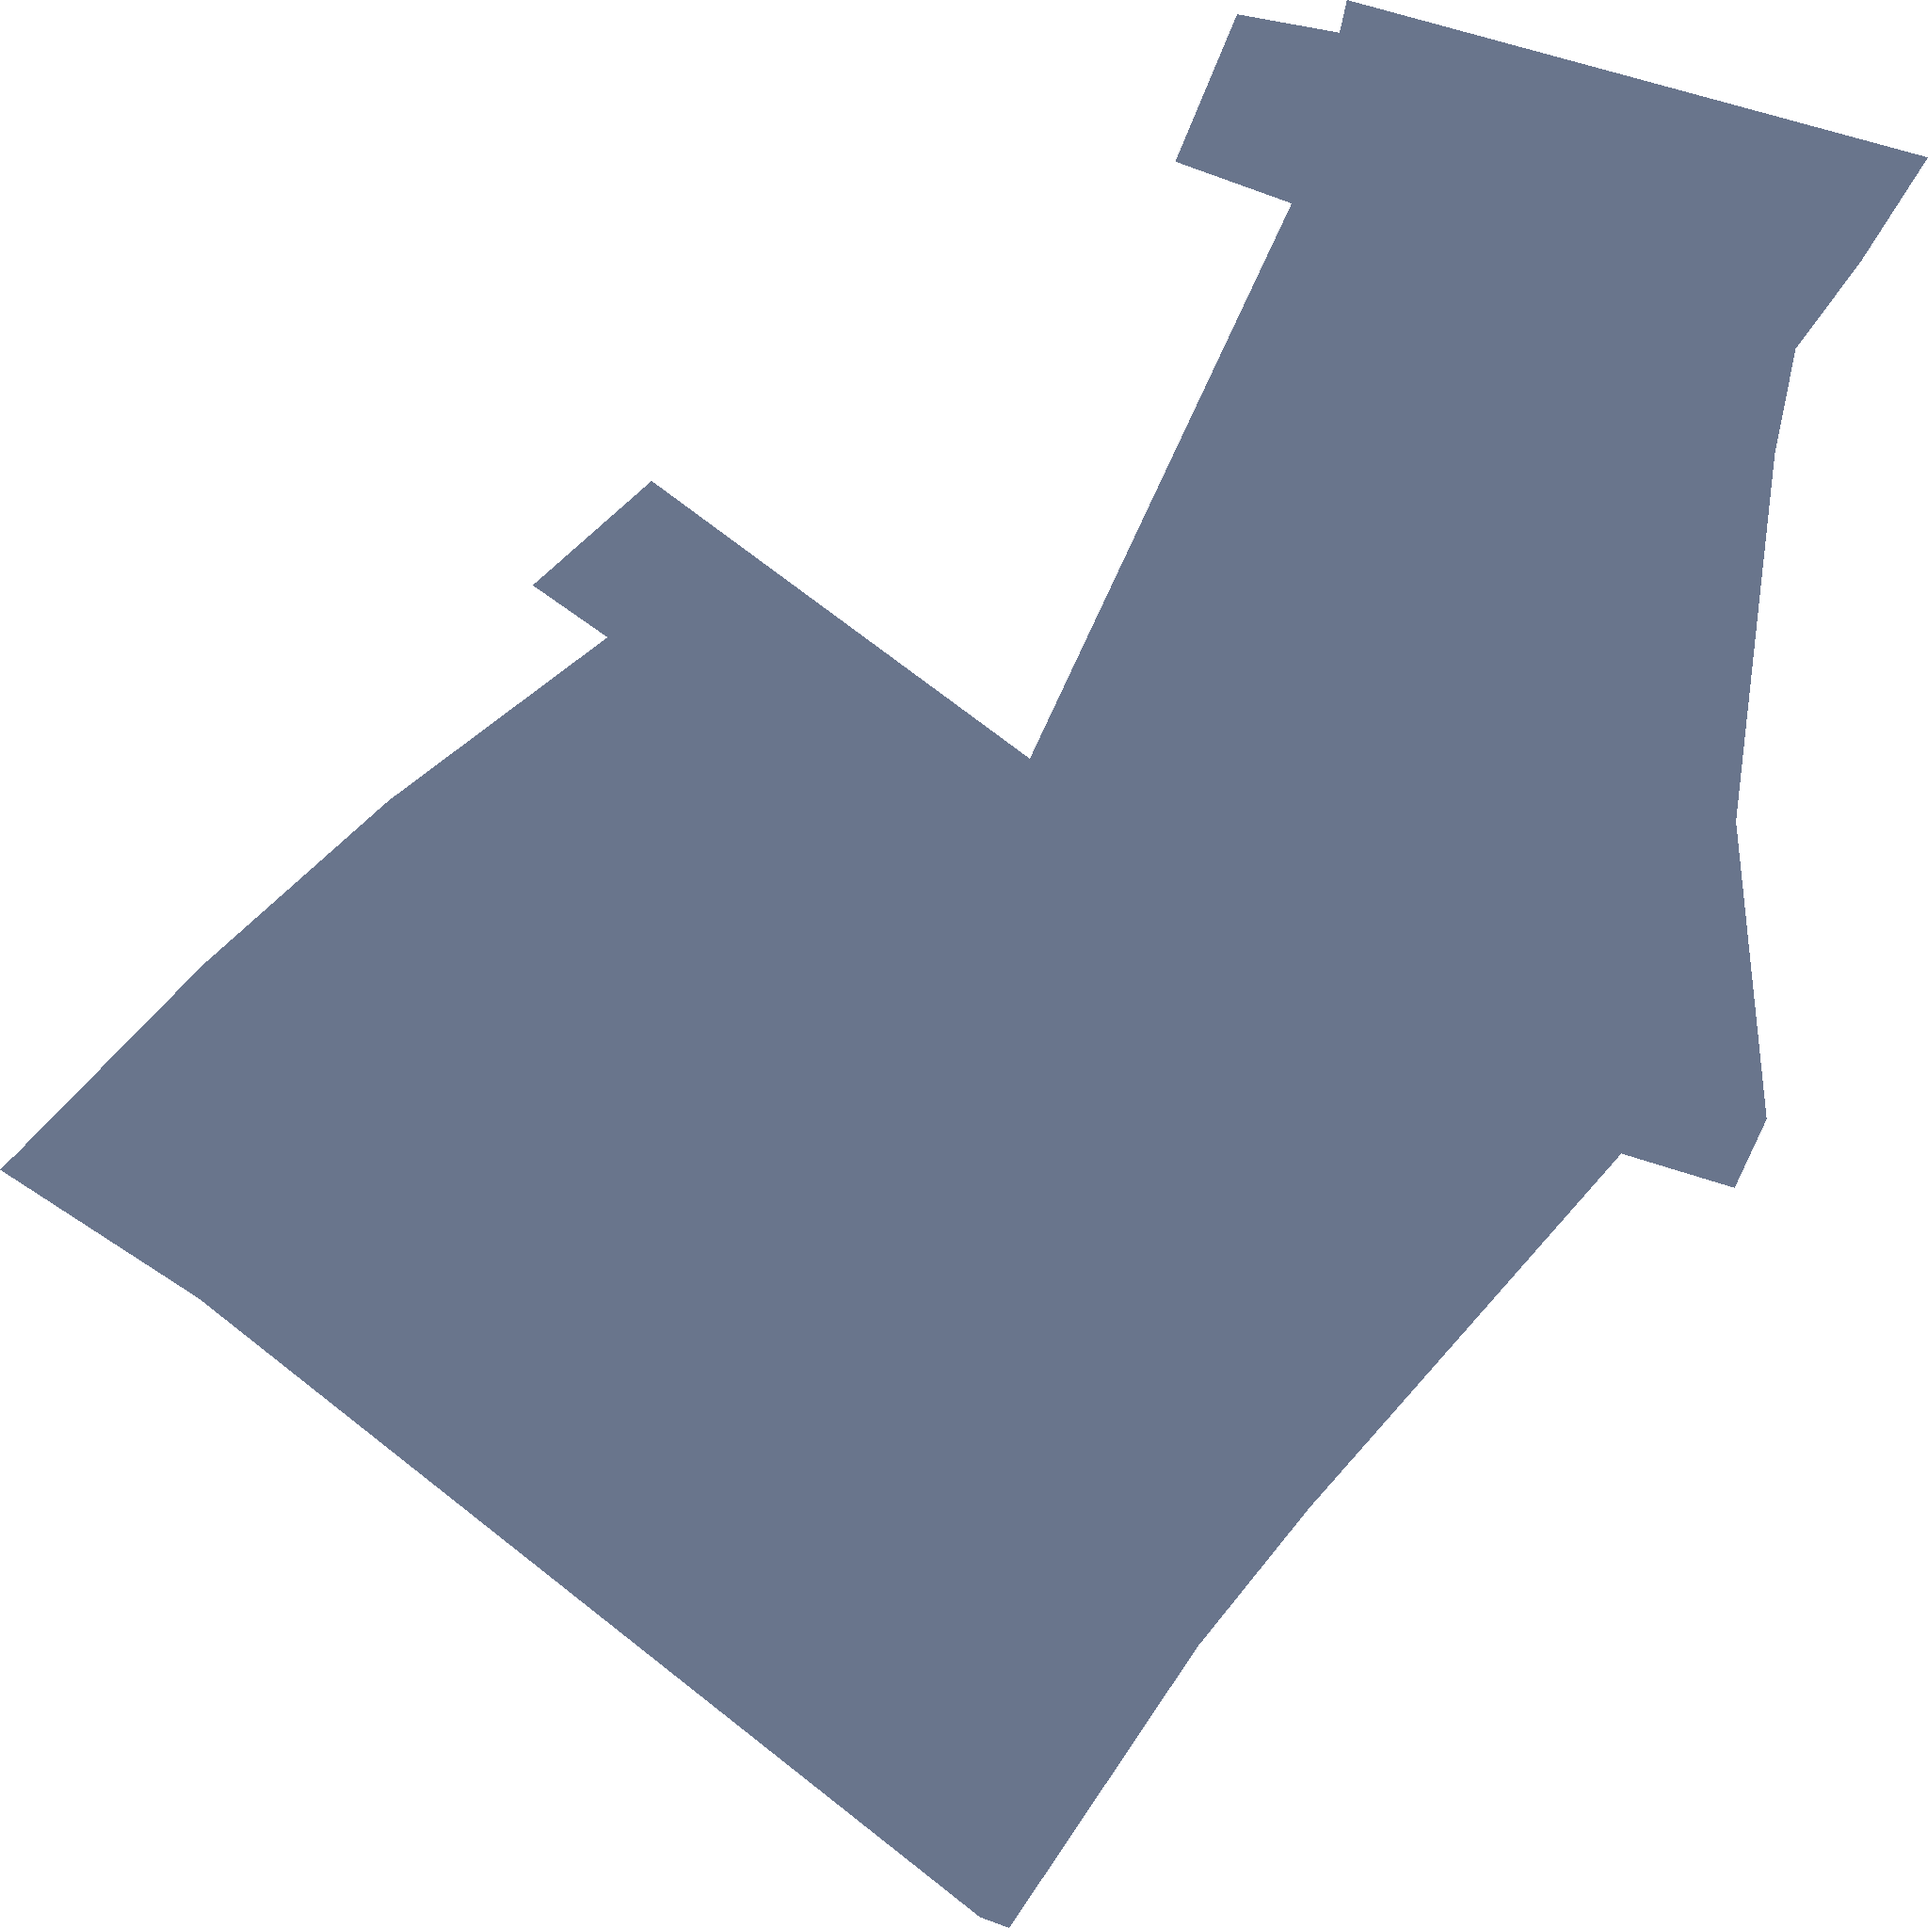
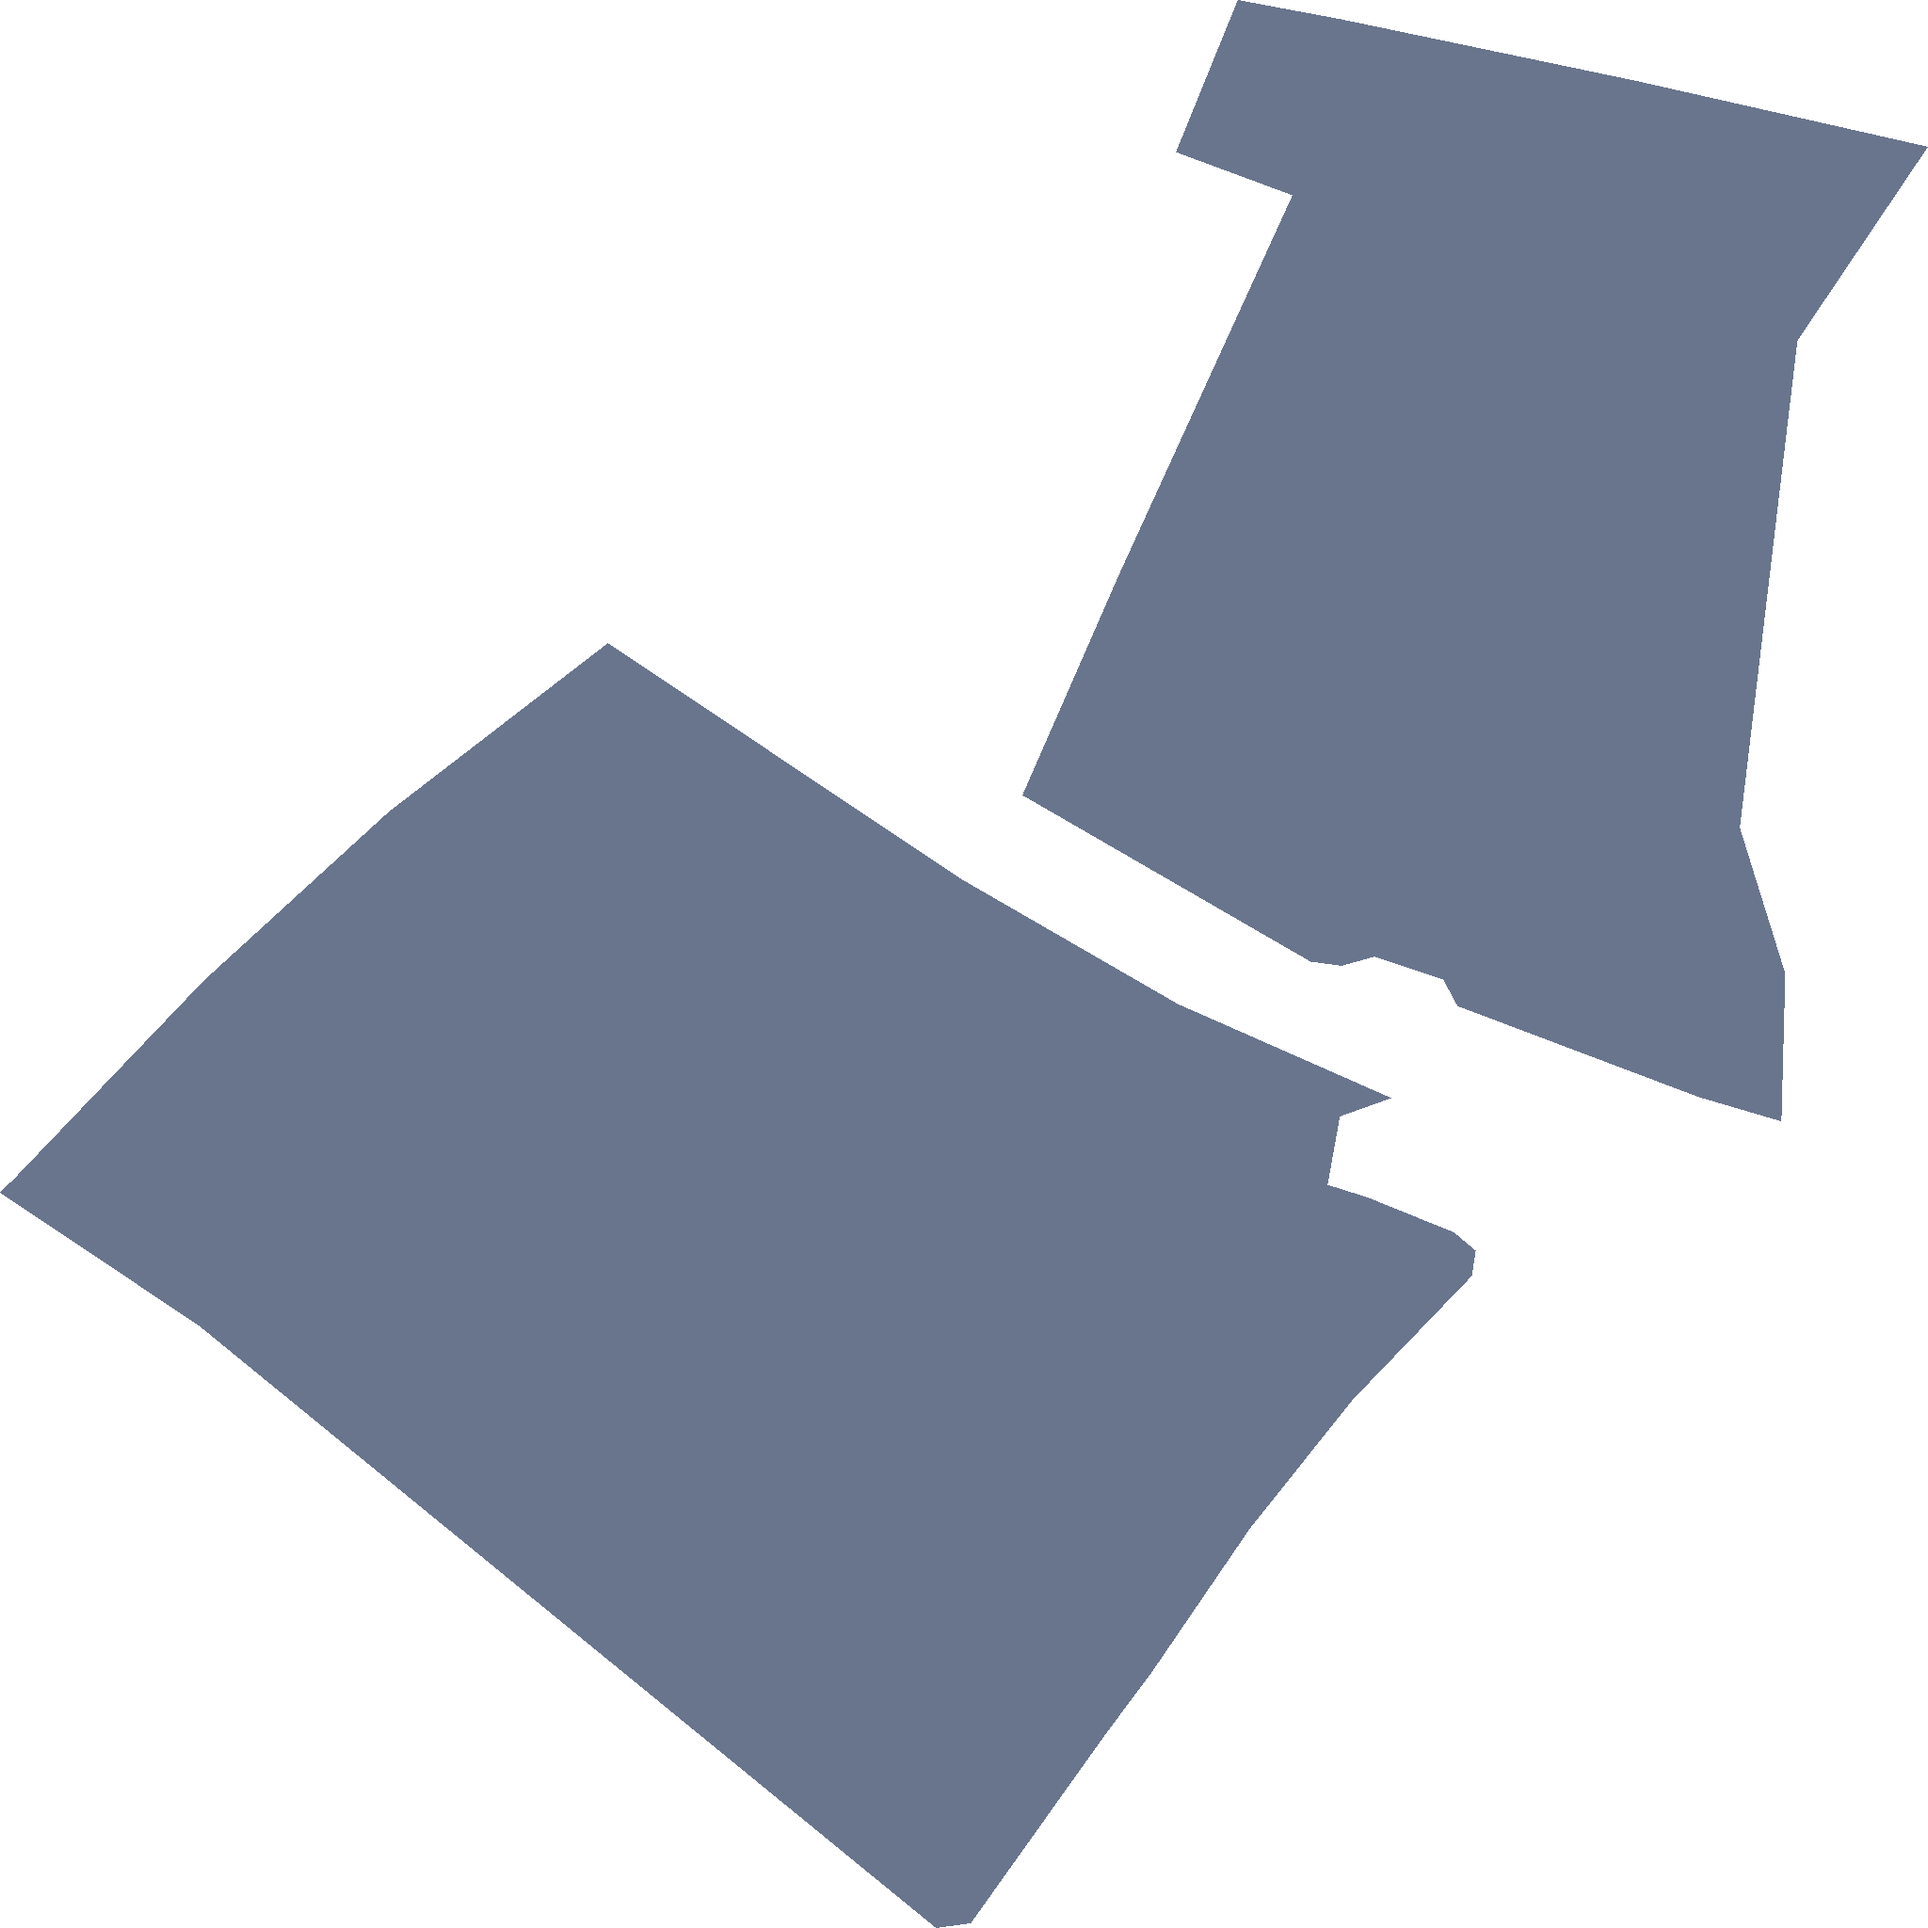
Karte sp_2043

diff --git a/sp_2043.html b/sp_2043.html
@@ -115,7 +115,7 @@
         <div><span style="display:inline-block;width:20px; height:10px; background:#FFC17D; margin-right:5px;"></span>Ausbauphase 3: Gefördertes Ausbaugebiet </div>
     </div>
     <script>
-    const bounds = [[49.12525599, 9.003895621], [49.128492501, 9.0074922]];
+    const bounds = [[49.125333241, 9.003895621], [49.1284686, 9.007490232]];
     const map = L.map('map', {zoomControl: false});
       map.fitBounds(bounds, {padding: [100, 100]});
        const maptiler = L.tileLayer('https://api.maptiler.com/maps/basic/{z}/{x}/{y}.png?key=hP74ooTG3ciBab5RShCg',
